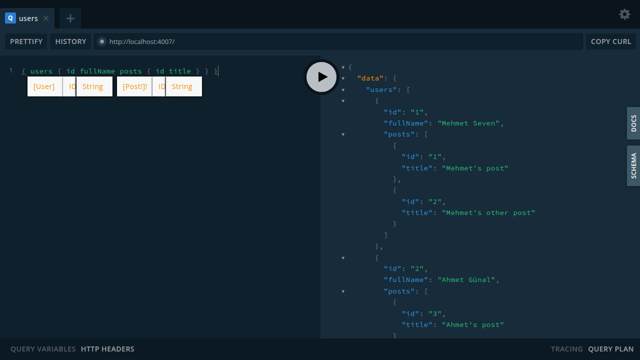
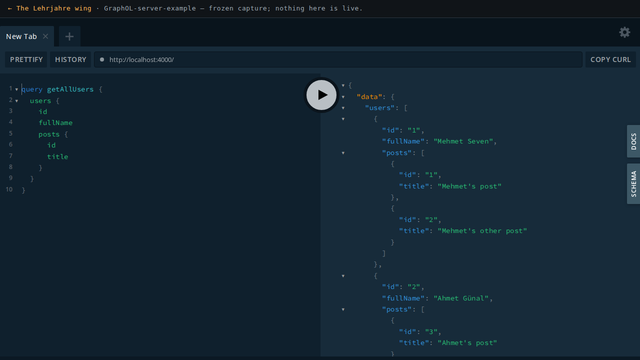
Lehrjahre hall: GraphOL card promoted to walkable

diff --git a/lehrjahre.html b/lehrjahre.html
@@ -272,17 +272,55 @@ fnamePlace.innerHTML = fname</code></pre>
     </div>
 
     <div class="lj-card">
-      <span class="lj-badge quiet">catalogue only</span>
+      <span class="lj-badge">walkable · answered</span>
       <h3>GraphOL-server-example <span class="lj-date">Mar 2023</span></h3>
-      <div class="lj-shot"><img src="assets/lehrjahre/graphol.png" alt="GraphQL Playground answering a users query" loading="lazy"></div>
-      <p class="lj-hook">My first GraphQL server; the typo in the name shipped.</p>
+      <div class="lj-shot"><a href="lehrjahre/graphol/index.html"><img src="assets/lehrjahre/graphol.png" alt="GraphQL Playground answering a users query" loading="lazy"></a></div>
+      <p class="lj-hook">A server with no website. Press Play and 2023 answers.</p>
       <div class="lj-plaque">
         <p>My first GraphQL server — the typo in the name shipped, and stuck. Two
         Turkish-named users, three posts, four comments, all hardcoded; its only
-        face was the query playground, photographed here mid-answer.</p>
+        face was the query playground, and it is the whole exhibit: a server
+        that never had a website.</p>
+        <p>The query waiting in the editor is his own, copied out of the notes
+        file he kept while learning. Press Play and the answer comes back — not
+        computed, but the one the server actually gave on capture day. The
+        Schema tab opens the shape he had built: users with posts, posts with
+        comments, everything pointing at everything else. Nothing here runs;
+        three frozen pages simply link to each other, so the exhibit needs no
+        JavaScript at all. One thing did survive the freeze on its own: in the
+        corner a small light still pulses, labelled "Polling Schema" — an
+        animation that needs no script, keeping watch over a server that
+        stopped answering in 2023.</p>
+        <div class="specimen-label">Specimen — src/data.ts, the whole cast</div>
+        <pre class="specimen"><code>const comments = [
+  { id: "1", text: "This is Ahmet's comment", post_id: "1", user_id: "2" },
+  { id: "2", text: "Mehmet's comment", post_id: "1", user_id: "1" },
+  { id: "3", text: "foo bar", post_id: "2", user_id: "2" },
+  { id: "4", text: "foo bar baz", post_id: "3", user_id: "1" },
+];</code></pre>
+        <p>Beside the code he kept a second file, <code>theirResponses.txt</code>,
+        where he pasted the answers the server gave him. It has fallen out of
+        step: the saved replies are still in Turkish, from before he translated
+        his own test data into English. The notes are older than the code, and
+        neither was ever told about the other.</p>
+        <div class="specimen-label">Specimen — theirResponses.txt, an answer to a question no longer asked</div>
+        <pre class="specimen"><code>{
+  "id": "1",
+  "text": "Bu Ahmet'in yorumudur",
+  "post_id": "1",
+  "user": {
+    "id": "2",
+    "fullName": "Ahmet Günal"
+  },
+  "post": {
+    "id": "1",
+    "title": "Mehmet'in gönderisi"
+  }
+},</code></pre>
         <p class="lj-charm">The fake data gives up halfway through: the last comments are "foo bar" and "foo bar baz".</p>
       </div>
       <button class="lj-plaque-btn" type="button">Read the plaque →</button>
+      <p class="lj-door"><a class="go" href="lehrjahre/graphol/index.html">Enter the exhibit →</a></p>
     </div>
 
     <div class="lj-card">
